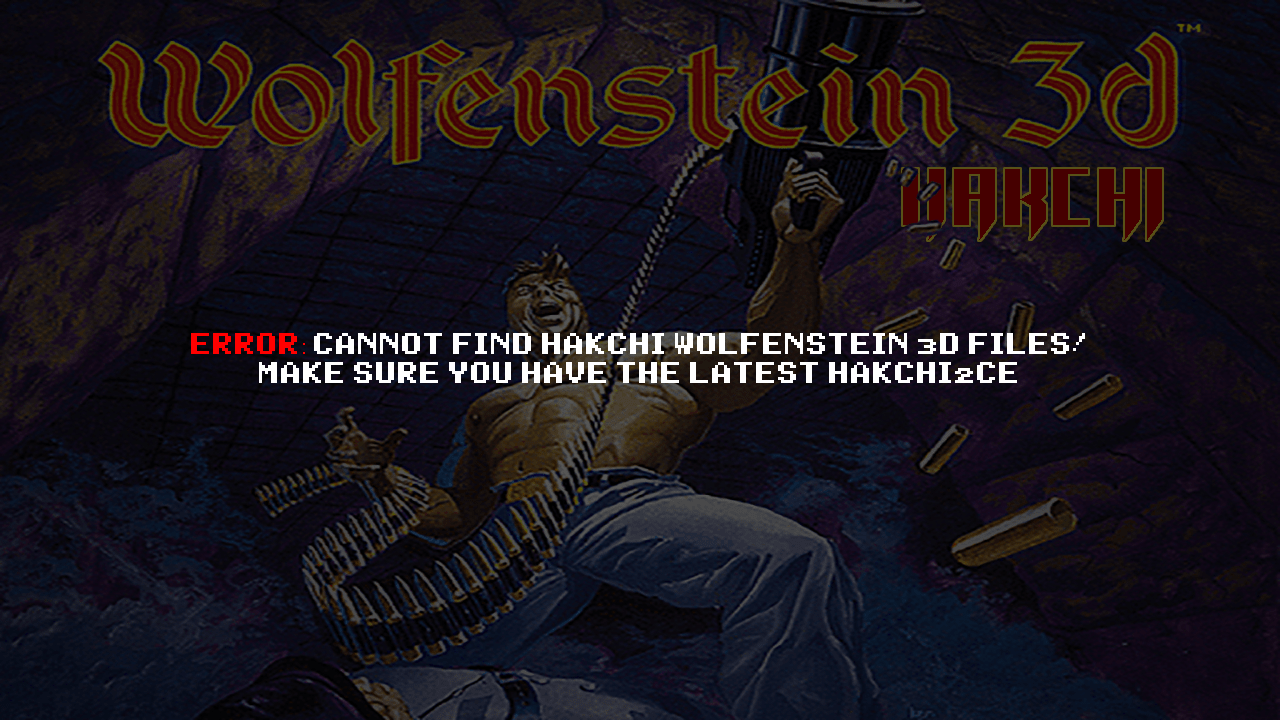
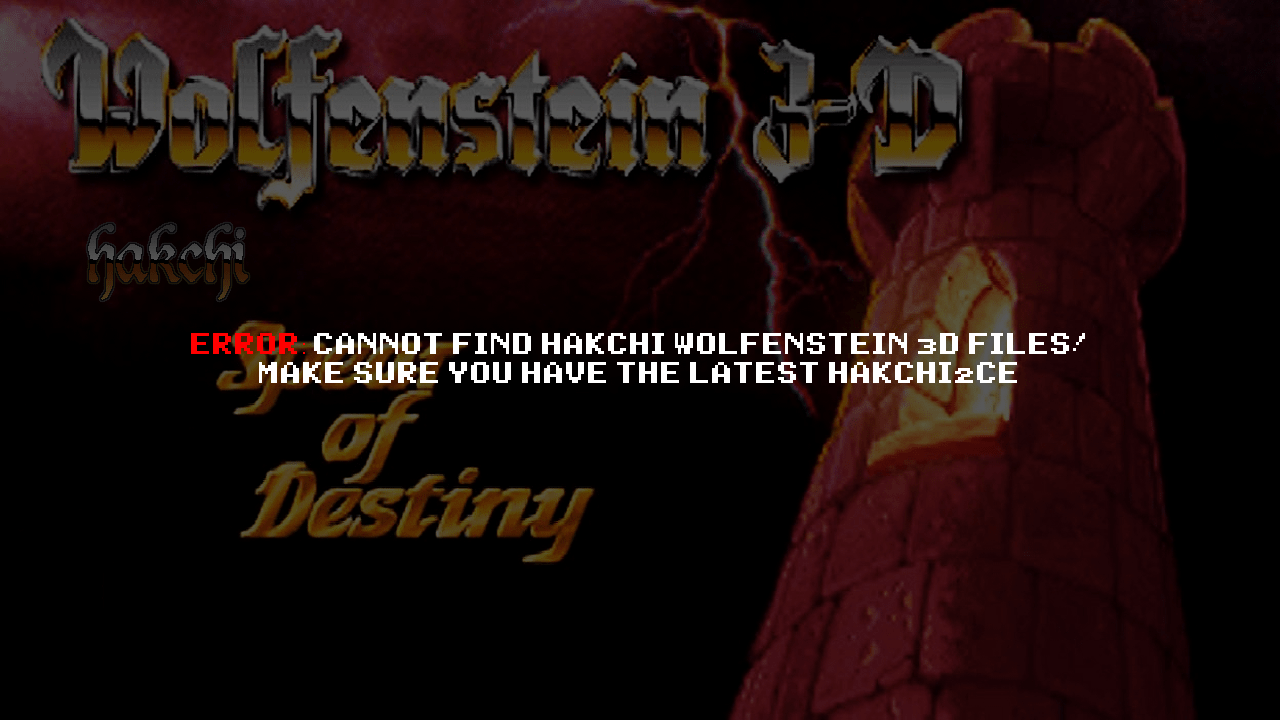
Processed game version. Needs new binary

diff --git a/version.h b/version.h
@@ -9,7 +9,7 @@
 
 /* Defines used for different versions */
 
-//#define SPEAR
+#define SPEAR
 //#define SPEARDEMO
 //#define UPLOAD
 #define GOODTIMES
